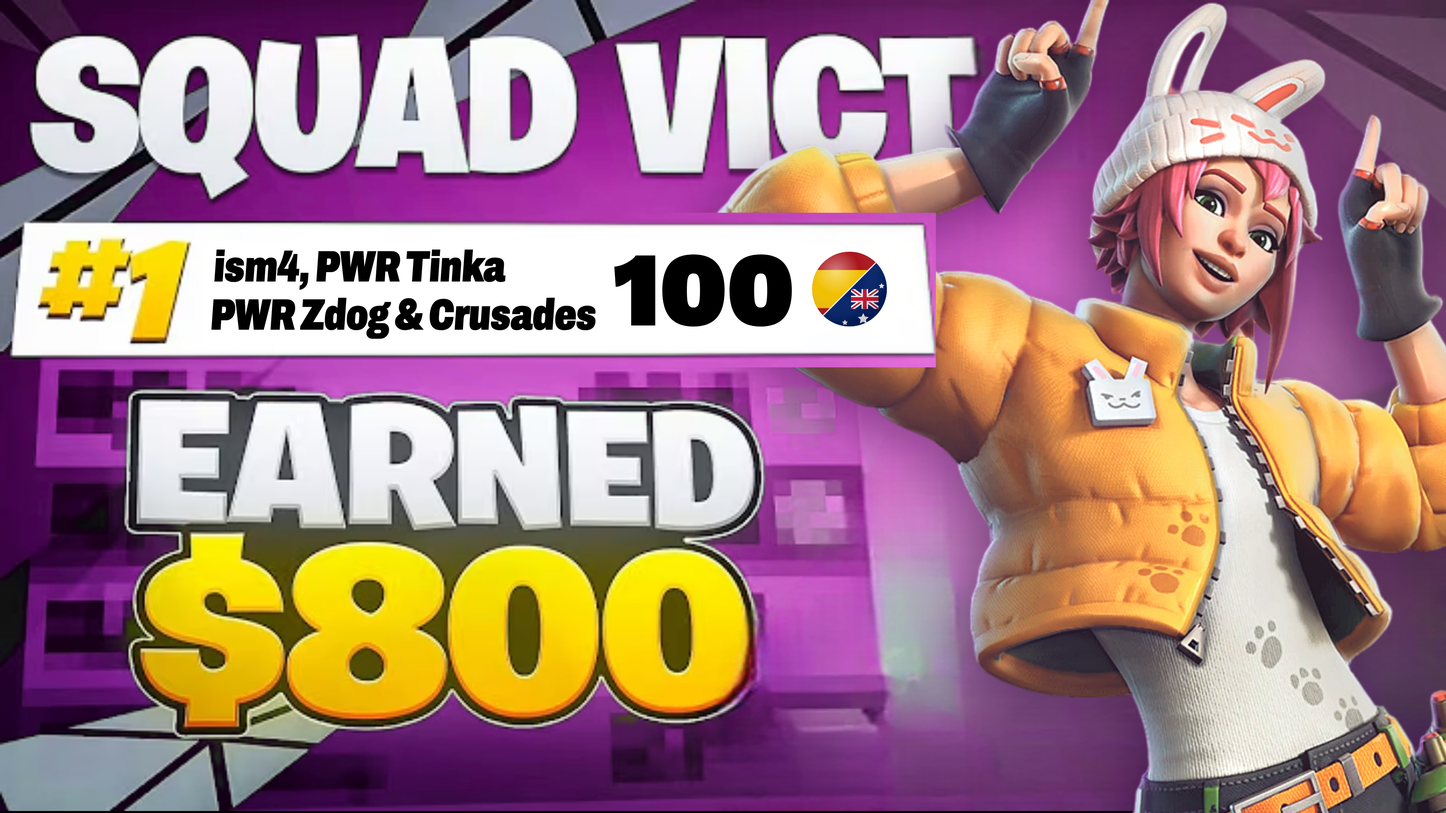
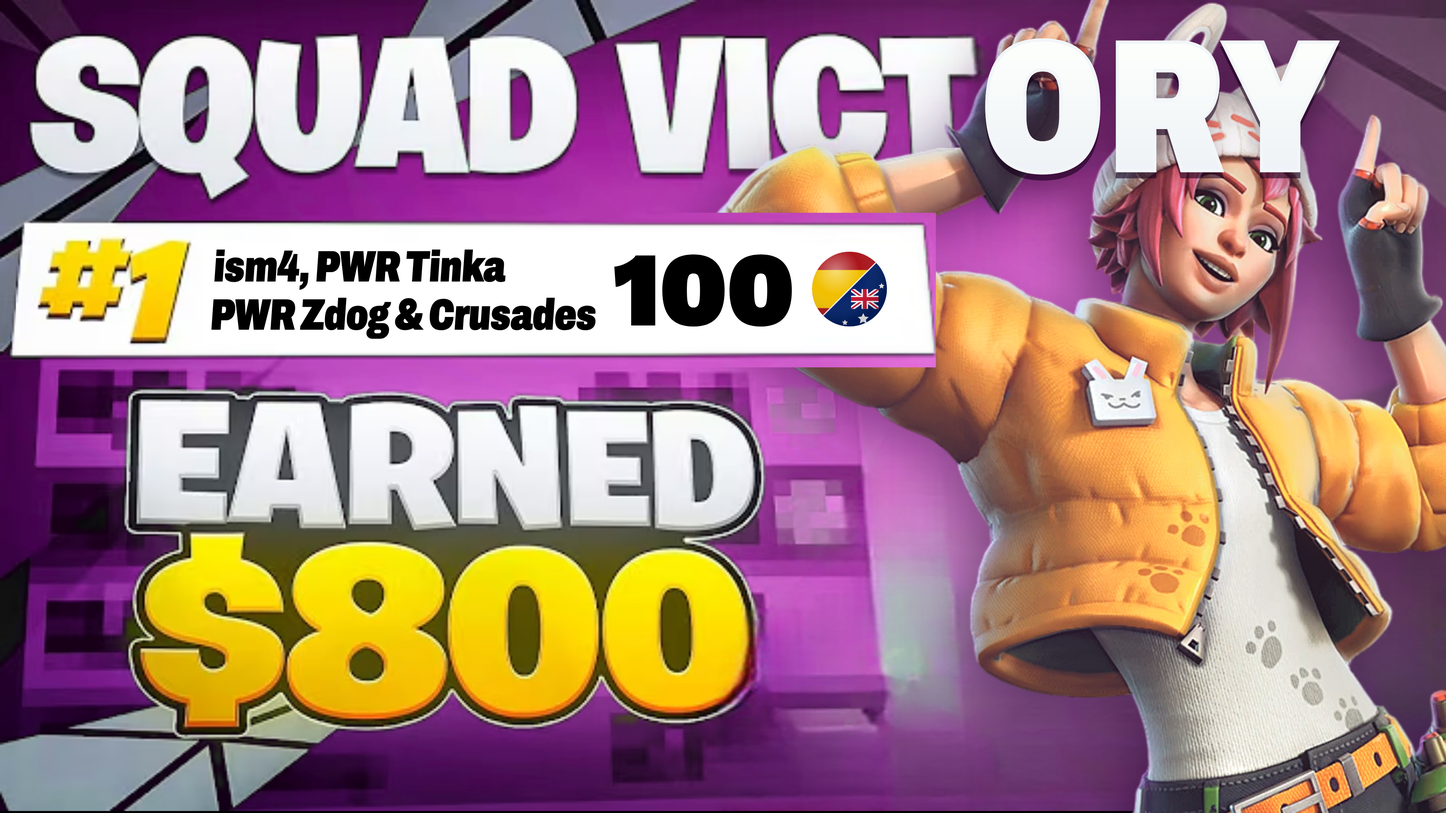
Squad Victory: recuperar las letras ORY de VICTORY por delante de la skin
Claude-Session: https://claude.ai/code/session_01Q54DXVH7GopsR3mpjPBNRA

Changed region(s): [[0.6562, 0.031, 0.9375, 0.2481]]

diff --git a/miniaturero/salida/2026-11-10_squad-victory/proyecto/miniatura.html b/miniaturero/salida/2026-11-10_squad-victory/proyecto/miniatura.html
@@ -13,6 +13,12 @@
     background: url("img/base_sin_personaje.png") 0 0 / 720px 404px no-repeat; }
 
   /* ====== textos: nombres en Archivo 900 inclinada 4° (como el original), número en Work Sans 900 recto ====== */
+  /* letras "ORY" de VICTORY: por delante de la skin para que el título se lea entero */
+  .ory { position: absolute; left: var(--ory-x, 488px); top: var(--ory-y, 7.5px); font-family: "Archivo"; font-weight: 900;
+    font-stretch: var(--ory-ancho, 78%); font-size: var(--ory-tam, 93px); line-height: 1; letter-spacing: var(--ory-esp, 1px);
+    background: linear-gradient(180deg, #fbfefb 20%, #eef2f6 85%); -webkit-background-clip: text; background-clip: text; color: transparent; -webkit-text-stroke: 1.6px #f3f6f8;
+    filter: drop-shadow(0 3px 0 rgba(25,0,30,.6)) drop-shadow(0 6px 8px rgba(25,0,30,.35)); }
+
   /* skin nueva (imagen aportada por el usuario) y la tarjeta del #1 por delante, como en el original */
   .skin { position: absolute; left: var(--skin-x, 350px); top: var(--skin-y, -8px); height: var(--skin-alto, 440px);
     filter: drop-shadow(-6px 8px 14px rgba(40,0,50,.45)); }
@@ -32,6 +38,7 @@
 <body>
 <div class="lienzo">
   <img class="skin" src="img/skin_nueva_iluminada.png" alt="">
+  <div class="ory">ORY</div>
   <img class="tarjeta" src="img/capa_tarjeta.png" alt="">
   <div class="nombres">ism4, PWR Tinka<br>PWR Zdog <span class="amp">&amp;</span> Crusades</div>
   <div class="puntos">100</div>

diff --git a/miniaturero/salida/2026-11-10_squad-victory/notas.md b/miniaturero/salida/2026-11-10_squad-victory/notas.md
@@ -15,6 +15,7 @@
 - **Fondo (10/11):** el verde del fondo pasa al morado/magenta de la clasificación del torneo (`entrada/clasificacion_squads.webp`): morado (111,33,112) a la izquierda, más oscuro abajo y magenta claro hacia la derecha. Script `proyecto/recolorear_fondo.py`: solo cambia verdes y turquesas fuera del personaje (máscara con BiRefNet), conserva luces, sombras y los cuadros pixelados. No se toca nada más: textos, personaje (camiseta y pendientes siguen verdes), "#1", "$800" y bandera iguales. Revisión: 1) quedaba un filo verde alrededor del personaje y los cuadros turquesa → máscara sin margen y rango de tonos ampliado; 2) OK.
 - **Cambio de skin (10/11):** no se genera un render nuevo (no hay modelo 3D y no se recrean personajes con derechos); se usa la imagen de la skin que aporta el usuario (`entrada/skin_nueva.webp`). Pasos (`proyecto/cambiar_skin.py`): máscara de la skin verde → relleno con LaMa → la tarjeta del #1 se separa en una capa (`capa_tarjeta.png`) para que vaya por delante, como en el original → skin nueva recortada con BiRefNet e iluminada en 3D (contraluz rosado por la derecha como la luz fuerte del render original, morado por la izquierda) → colocada a la derecha, sangrando por abajo y cubriendo el final de "VICTORY" igual que la gorra de la verde. La pose es la de la imagen aportada.
 - **Luz de la skin nueva (v2, 10/11):** al usuario no le gustó la primera (sombras demasiado negras, colores muy saturados, contornos pintados). Ahora `proyecto/luz_como_verde.py` iguala la luz a la del render de la skin verde (`entrada/referencia_luz_skin_verde.webp`): mismo reparto de luces/sombras (luz media 60 vs 61, sombras 21 vs 21, brillos 92 vs 91), saturación algo más suave (0,39 vs 0,35), reflejo morado del fondo por la izquierda, brillo suave y nitidez. En el HTML, sombra proyectada morada suave.
+- **"ORY" de VICTORY (10/11):** en el original esas letras quedaban detrás de la gorra de la skin verde y no existían en la imagen; al cambiar la skin se notaba que faltaban. Se han rehecho con Archivo 900 (ancho 78 %), con la misma altura (66 px) y línea base que "VICT", relleno blanco con degradado gris azulado suave y sombra oscura debajo, como el resto del título. Van por delante de la skin para que "SQUAD VICTORY" se lea entero.
 - **Resolución:** el original es 720×404; se exporta a 3840×2160 pero la imagen de fondo sigue siendo la misma (algo blanda). Si tienes el archivo original a más resolución, queda más nítida.
 
 ## Archivos
